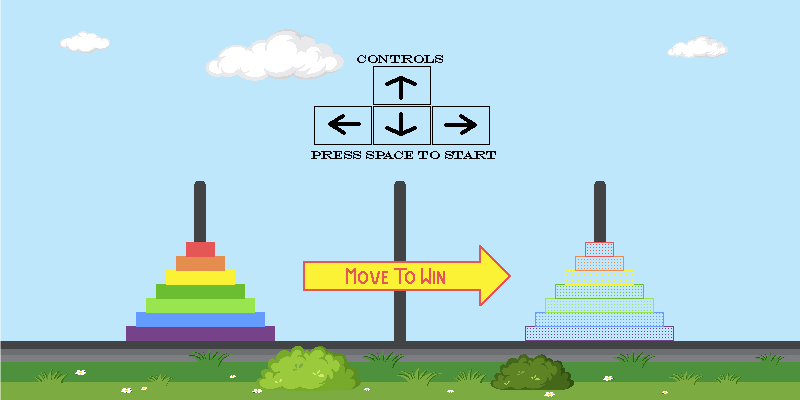
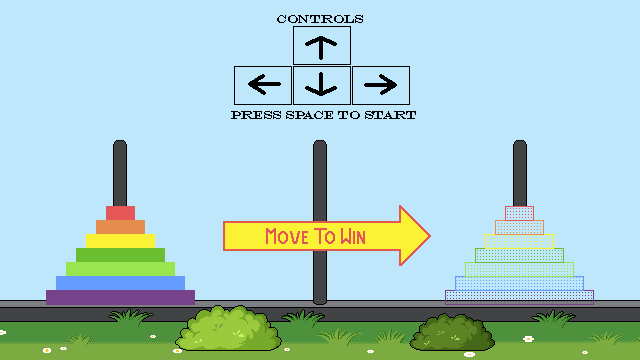
Resize screen from 800x400 to 640x360
* Update the position of cursor, rods, disks and win message to work
correctly with 640x360,

* Add new sprites for running-background, cloud-variations, help and
play buttons,

* Change the screen mode from pygame.FULLSCREEN | pygame.SCALED
to pygame.SCALED to avoid pixel distortion.

Changed region(s): [[0.0, 0.0306, 1.0, 1.0], [0.8125, 0.0917, 0.9062, 0.1528], [0.0625, 0.0611, 0.1562, 0.1528]]

diff --git a/main.py b/main.py
@@ -25,8 +25,6 @@ import gi
 gi.require_version("Gtk", "3.0")
 from gi.repository import Gtk
 
-from sugar3.graphics.style import GRID_CELL_SIZE
-
 import pygame
 from background import Background
 from rod import Rod
@@ -64,9 +62,9 @@ class TowerOfHanoi:
         self.background = pygame.sprite.GroupSingle()
         self.background.add(Background(self.screen, self.state))
         self.disks = []
-        self.source = Rod(200, 341)
-        self.aux = Rod(400, 341)
-        self.target = Rod(600, 341)
+        self.source = Rod(120, 305)
+        self.aux = Rod(320, 305)
+        self.target = Rod(520, 305)
         for i in range(7 - self.level, 7):
             self.disks.append(Disk(DISK_COLORS[i], DISK_RADII[i], DISK_HEIGHT))
             self.source.putOnTop(self.disks[-1])
@@ -144,7 +142,7 @@ class TowerOfHanoi:
     def run(self):
         self.state = "instructions"
 
-        self.screen = pygame.display.set_mode((800, 400), pygame.FULLSCREEN | pygame.SCALED)
+        self.screen = pygame.display.set_mode((640, 360), pygame.SCALED)
         self.screen.fill("white")
         self.background = pygame.sprite.GroupSingle()
         self.background.add(Background(self.screen, self.state))
@@ -174,6 +172,6 @@ class TowerOfHanoi:
 
 if __name__ == "__main__":
     g = TowerOfHanoi()
-    GAME_SIZE = (800, 400)
-    g.screen = pygame.display.set_mode(GAME_SIZE, pygame.FULLSCREEN | pygame.SCALED)
+    GAME_SIZE = (640, 360)
+    g.screen = pygame.display.set_mode(GAME_SIZE, pygame.SCALED)
     g.run()

diff --git a/cursor.py b/cursor.py
@@ -27,7 +27,7 @@ class Cursor(pygame.sprite.Sprite):
     def __init__(self):
         super().__init__()
         self.image = pygame.image.load("./assets/cursor.png")
-        self.rect = self.image.get_rect(midbottom=(200, 85))
+        self.rect = self.image.get_rect(midbottom=(120, 65))
 
     def moveToRod(self, rod):
         self.rect.centerx = rod.mid

diff --git a/win_message.py b/win_message.py
@@ -39,7 +39,7 @@ class Win_message:
         text_rect = text.get_rect(center=(self.image.get_width() / 2, 85))
         self.image.blit(text, text_rect)
 
-        self.rect = self.image.get_rect(center=(400, 200))
+        self.rect = self.image.get_rect(center=(320, 180))
 
     def draw(self, screen):
         screen.blit(self.image, self.rect)

diff --git a/disk.py b/disk.py
@@ -43,4 +43,4 @@ class Disk:
         pygame.draw.rect(screen, self.color, rectangle, 0, 5)
 
     def putInFocus(self):
-        self.bottom = 100
+        self.bottom = 80
